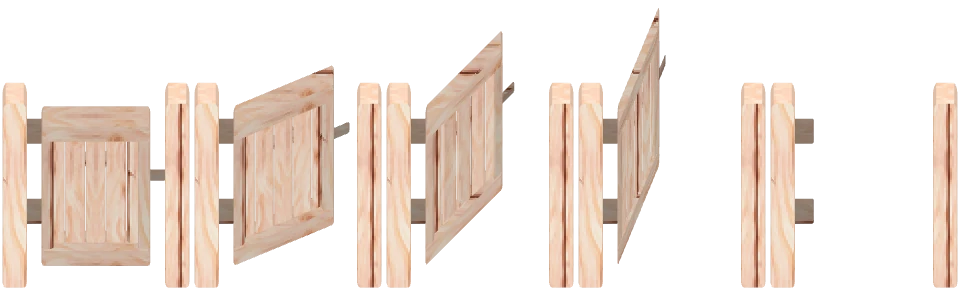
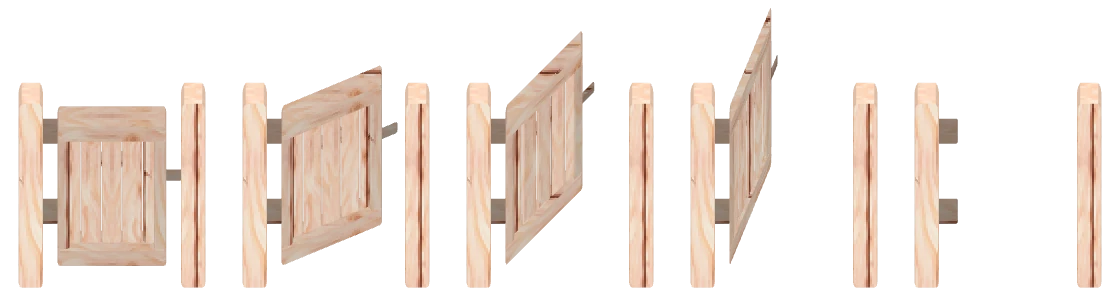
Cerca: sombra de contato no chão (não flutua mais)
Sombra por código como sprite translúcido atrás da cerca (3D) e direto no canvas (2D); porteira com quadro mais largo.

Claude-Session: https://claude.ai/code/session_01KGdgomm438trDHTLPLqJmv

diff --git a/src/render/three/chunkSprites.ts b/src/render/three/chunkSprites.ts
@@ -17,6 +17,8 @@ export interface SpriteArt {
 }
 export interface SpriteDraw {
   sprite: SpriteArt;
+  /** Sombra no chão (sprite translúcido, não clicável) desenhada atrás do sprite. */
+  shadow?: SpriteArt;
   /** Dá para andar por cima (grama, flor, cultura, porta aberta): não esconde o personagem. */
   walkable: boolean;
   /** Desenhado empilhado N vezes, um cubo (1 de altura) acima do outro (parede do labirinto: 2). Padrão 1. */
@@ -33,6 +35,8 @@ export interface SpriteCell {
   lift?: number;
   /** Fator de tamanho (`SpriteDraw.scale`); padrão 1. */
   scale?: number;
+  /** Deslocamento extra de profundidade (a sombra fica um pouco atrás do sprite). */
+  bias?: number;
 }
 export interface ChunkSpritesOptions {
   /** Pixels por célula da arte (TILE). */
@@ -117,6 +121,8 @@ diffuseColor.rgb *= 1.0 + warm * (pulse - 0.5) * 0.45;
 export const SPRITE_BIAS_BASE = 0.01;
 export const SPRITE_BIAS_STEP = 0.0015;
 export const SPRITE_BIAS_PERIOD = 64;
+/** A sombra de contato (`SpriteDraw.shadow`) fica este tanto atrás do sprite a que pertence. */
+const SHADOW_BIAS = 0.004;
 export function spriteDepthBias(x: number): number {
   return SPRITE_BIAS_BASE + (x & (SPRITE_BIAS_PERIOD - 1)) * SPRITE_BIAS_STEP;
 }
@@ -317,6 +323,11 @@ export class ChunkSprites {
         const scale = draw.scale && draw.scale !== 1 ? draw.scale : undefined;
         const n = Math.min(MAX_STACK_DRAWN, Math.max(1, Math.floor(draw.stack ?? 1)));
         for (let level = 0; level < n; level++) bucket.cells.push({ x, y, id, sprite: draw.sprite, lift: level, scale });
+        if (draw.shadow) {
+          let sb = buckets.get(draw.shadow.canvas);
+          if (!sb) { sb = { sprite: draw.shadow, walkable: true, animated: null, cells: [] }; buckets.set(draw.shadow.canvas, sb); }
+          sb.cells.push({ x, y, id, sprite: draw.shadow, bias: -SHADOW_BIAS });
+        }
       }
     }
     const groups: Group[] = [];
@@ -330,7 +341,7 @@ export class ChunkSprites {
         // base do sprite = face sul da célula (oy + h = TILE na maioria dos objetos); canto esquerdo = ox
         // maior que 1: cresce em volta do meio da base (o tronco fica na célula)
         const sc = cell.scale ?? 1;
-        this.dummy.position.set(cell.x + sprite.ox / tile - (sprite.w / tile / 2) * (sc - 1), cell.lift ?? 0, cell.y + (sprite.oy + sprite.h) / tile + spriteDepthBias(cell.x));
+        this.dummy.position.set(cell.x + sprite.ox / tile - (sprite.w / tile / 2) * (sc - 1), cell.lift ?? 0, cell.y + (sprite.oy + sprite.h) / tile + spriteDepthBias(cell.x) + (cell.bias ?? 0));
         this.dummy.rotation.set(0, 0, 0);
         this.dummy.scale.set(sc, sc, 1);
         this.dummy.updateMatrix();

diff --git a/src/render/fence.ts b/src/render/fence.ts
@@ -22,7 +22,7 @@ export const FENCE_FRAME = { w: 128, h: 232, ax: 64, ay: 208 } as const;
  * Porteira do modelo 3D (v0.93.96): 5 poses (0°, 22,5°, 45°, 67,5°, 90°) lado a lado, cada uma `w × h` (a folha gira para o norte em torno da
  * dobradiça); `postBase` = linha da base das estacas (a mesma âncora da cerca). Há uma tira por madeira; a porteira usa a da cerca vizinha.
  */
-export const GATE_FRAME = { w: 192, h: 300, postBase: 278, poses: 5 } as const;
+export const GATE_FRAME = { w: 224, h: 300, postBase: 278, poses: 5 } as const;
 
 /** Madeira da porteira: a da primeira cerca vizinha (oeste, leste, norte, sul); sem cerca por perto, Carvalho. `at(dx, dy)` devolve o objeto da célula vizinha. */
 export function gateWood(at: (dx: number, dy: number) => BlockId): BlockId {
@@ -60,3 +60,31 @@ export const FENCE_OFFSET = {
   x: TILE / 2 - FENCE_FRAME.ax * FENCE_SCALE,
   y: TILE / 2 - FENCE_FRAME.ay * FENCE_SCALE,
 } as const;
+
+function blob(ctx: CanvasRenderingContext2D, cx: number, cy: number, rx: number, ry: number, alpha: number): void {
+  ctx.save();
+  ctx.translate(cx, cy);
+  ctx.scale(rx, ry);
+  const g = ctx.createRadialGradient(0, 0, 0, 0, 0, 1);
+  g.addColorStop(0, `rgba(0,0,0,${alpha})`);
+  g.addColorStop(0.55, `rgba(0,0,0,${alpha * 0.7})`);
+  g.addColorStop(1, 'rgba(0,0,0,0)');
+  ctx.fillStyle = g;
+  ctx.beginPath();
+  ctx.arc(0, 0, 1, 0, Math.PI * 2);
+  ctx.fill();
+  ctx.restore();
+}
+
+/**
+ * Sombra de contato da cerca no chão (v0.93.96; sem ela a cerca parece flutuar): uma mancha suave sob a estaca e outra sob cada braço que se emenda.
+ * Desenhada por código (não vai na arte: o 3D usa `alphaTest` nos sprites e pontos translúcidos virariam pretos) com `ax, ay` = pé da estaca no
+ * canvas e `z` = escala (px do canvas por px do quadro de 128 px por célula).
+ */
+export function drawFenceShadow(ctx: CanvasRenderingContext2D, ax: number, ay: number, z: number, n: boolean, e: boolean, s: boolean, w: boolean): void {
+  blob(ctx, ax + 5 * z, ay + 3 * z, 38 * z, 26 * z, 0.5);
+  if (w) blob(ctx, ax - 40 * z, ay + 3 * z, 36 * z, 17 * z, 0.36);
+  if (e) blob(ctx, ax + 46 * z, ay + 3 * z, 36 * z, 17 * z, 0.36);
+  if (n) blob(ctx, ax + 5 * z, ay - 40 * z, 20 * z, 36 * z, 0.36);
+  if (s) blob(ctx, ax + 5 * z, ay + 46 * z, 20 * z, 36 * z, 0.36);
+}

diff --git a/src/render/renderer.ts b/src/render/renderer.ts
@@ -4,7 +4,7 @@ import type { ItemDrop } from '../game/drops';
 import type { Actor } from '../game/entities';
 import type { Player } from '../game/player';
 import { Block, blockDef, type BlockId, isDoor, isFence, isGate, joinsFence } from '../world/blocks';
-import { FENCE_FRAME, FENCE_OFFSET, FENCE_SCALE, FencePiece, fenceParts, gateWood } from './fence';
+import { FENCE_FRAME, FENCE_OFFSET, FENCE_SCALE, FencePiece, fenceParts, drawFenceShadow, gateWood } from './fence';
 import { hash2 } from '../world/random';
 import type { World } from '../world/world';
 import { ActorSprites, drawHeart } from './character';
@@ -376,10 +376,11 @@ export class Renderer {
   private drawFence(cam: Camera, x: number, y: number, pieces: HTMLCanvasElement[]): void {
     const j = (dx: number, dy: number) => joinsFence(this.world.getObject(x + dx, y + dy));
     const parts = fenceParts(j(0, -1), j(1, 0), j(0, 1), j(-1, 0));
-    const { w, h, ax } = FENCE_FRAME;
+    const { w, h, ax, ay } = FENCE_FRAME;
     const z = cam.zoom * FENCE_SCALE;
     const left = cam.worldToScreenX(x * TILE + FENCE_OFFSET.x);
     const top = cam.worldToScreenY(y * TILE + FENCE_OFFSET.y);
+    drawFenceShadow(this.ctx, left + ax * z, top + ay * z, z, parts.north || parts.whole === FencePiece.Vertical, parts.east || parts.whole === FencePiece.Horizontal, parts.south || parts.whole === FencePiece.Vertical, parts.west || parts.whole === FencePiece.Horizontal);
     // Recorte (sx, sy, sw, sh) da peça, desenhado na mesma posição do quadro.
     const piece = (p: number, sx: number, sy: number, sw: number, sh: number) =>
       this.ctx.drawImage(pieces[p], sx, sy, sw, sh, Math.round(left + sx * z), Math.round(top + sy * z), Math.ceil(sw * z), Math.ceil(sh * z));

diff --git a/src/render/worldSpriteArt.ts b/src/render/worldSpriteArt.ts
@@ -1,7 +1,7 @@
 import { Block, blockDef, isDoor, isFence, isGate, joinsFence, type BlockId } from '../world/blocks';
 import { hash2 } from '../world/random';
 import type { World } from '../world/world';
-import { FENCE_FRAME, FENCE_OFFSET, FENCE_SCALE, FencePiece, fenceParts } from './fence';
+import { FENCE_FRAME, FENCE_OFFSET, FENCE_SCALE, FencePiece, fenceParts, drawFenceShadow } from './fence';
 import type { BlockTextures } from './textures';
 import { isTownArt } from './townArt';
 import type { SpriteDraw } from './three/chunkSprites';
@@ -40,9 +40,15 @@ export function worldSpriteArt(world: World, textures: BlockTextures): (id: Bloc
       if (parts.south) piece(FencePiece.ArmSouth, 0, 0, fw, fh);
     }
     const wpx = fw * FENCE_SCALE, hpx = fh * FENCE_SCALE;
+    // Sombra no chão: sprite à parte (translúcido; o sprite sólido do 3D descartaria o que tem pouco alfa), atrás da cerca.
+    const sc = document.createElement('canvas');
+    sc.width = fw;
+    sc.height = fh;
+    drawFenceShadow(sc.getContext('2d')!, FENCE_FRAME.ax, FENCE_FRAME.ay, 1, n || parts.whole === FencePiece.Vertical, e || parts.whole === FencePiece.Horizontal, s || parts.whole === FencePiece.Vertical, w || parts.whole === FencePiece.Horizontal);
     hit = {
       walkable: false,
       sprite: { canvas: c, ox: FENCE_OFFSET.x, oy: FENCE_OFFSET.y, w: wpx, h: hpx, hit: { x: FENCE_OFFSET.x, y: FENCE_OFFSET.y, w: wpx, h: hpx } },
+      shadow: { canvas: sc, ox: FENCE_OFFSET.x, oy: FENCE_OFFSET.y, w: wpx, h: hpx, hit: { x: 0, y: 0, w: 0, h: 0 } },
     };
     fenceCache.set(key, hit);
     return hit;

diff --git a/scripts/fence-model/render.html b/scripts/fence-model/render.html
@@ -7,7 +7,7 @@ const P = new URLSearchParams(location.search);
 const piece = P.get('piece'), WOOD = P.get('wood');
 const CELL = 12, PPU = 128 / CELL, K = 1;
 const GATE = piece === 'gate', ANGLE = +(P.get('angle') || 0) * Math.PI / 180;
-const [W, H, AY] = GATE ? [192, 300, 278] : [128, 232, 208];
+const [W, H, AY] = GATE ? [224, 300, 278] : [128, 232, 208];
 const d = await (await fetch(GATE ? 'gate.json' : 'model.json')).json();
 const byName = Object.fromEntries(d.elements.map((e) => [e.name, e]));
 const loader = new THREE.TextureLoader();
@@ -17,6 +17,8 @@ const tile = (n) => new Promise((r) => loader.load(n, (x) => {
 }));
 const [woodTop, woodFront] = await Promise.all([tile('top-' + WOOD + '.png'), tile('front-' + WOOD + '.png')]);
 const scene = new THREE.Scene();
+
+// (a sombra de contato no chão não é cozida na arte: os sprites sólidos usam alphaTest e ela viraria pontos pretos; ver `fenceShadow` em render/fence.ts)
 
 /** Malha do modelo com os vértices transformados por `map([x,y,z]) → [x,y,z]`; UV por projeção a partir da posição final (1 tile = 1 célula = 12 u). */
 /** `tone` escurece (< 1) ou clareia (> 1) a peça: as travessas saem mais escuras que as estacas para se distinguirem delas. */

diff --git a/scripts/extract-fence-model.py b/scripts/extract-fence-model.py
@@ -48,9 +48,9 @@ for wood, (_, strip_name, icon_name, gate_name) in WOODS.items():
     c = Image.new('RGBA', (64, 64), (0, 0, 0, 0))
     c.alpha_composite(im, ((64 - im.width) // 2, (64 - im.height) // 2))
     c.save(OUT / icon_name, 'WEBP', quality=90, method=6)
-    gate = Image.new('RGBA', (192 * 5, 300), (0, 0, 0, 0))   # 5 poses (0°, 22,5°, 45°, 67,5°, 90°) 192 × 300; base das estacas em (96, 278)
+    gate = Image.new('RGBA', (224 * 5, 300), (0, 0, 0, 0))   # 5 poses (0°, 22,5°, 45°, 67,5°, 90°) 224 × 300; base das estacas em (112, 278)
     for i in range(5):
-        gate.alpha_composite(Image.open(renders / f'{wood}-gate-{i}.png').convert('RGBA'), (i * 192, 0))
+        gate.alpha_composite(Image.open(renders / f'{wood}-gate-{i}.png').convert('RGBA'), (i * 224, 0))
     gate.save(OUT / gate_name, 'WEBP', quality=90, method=6)
     if wood == 'carvalho':
         im = Image.open(renders / 'carvalho-gate-0.png').convert('RGBA')

diff --git a/docs/CHANGELOG.md b/docs/CHANGELOG.md
@@ -4,8 +4,9 @@
 - **Pedido do dono do produto:** usar o modelo 3D da cerca de bétula (`assets-src/cerca-betula/*.bbmodel`) como arte da cerca: **substitui a Cerca de Madeira (Carvalho)** e entra como **blocos novos em Bétula e em Cerejeira**.
 - **Arte** (`scripts/extract-fence-model.py` + `scripts/fence-model/render.{html,cjs}`): o modelo é renderizado com Three.js (Chromium do Playwright) na câmera do jogo (oblíqua K = 1, norte para cima) e revestido com as tábuas do `materials-v2` de cada madeira (veio vertical nas estacas, horizontal nas travessas; sombreado fixo por face; as **travessas são 32 % mais escuras que as estacas** (`RAIL_TONE` em `render.html`) para se distinguirem delas). 3 tiras de 5 quadros 128 × 232 (`fence.webp`, `fence-betula.webp`, `fence-cerejeira.webp`): horizontal, vertical, estaca, **braço norte** e **braço sul** (só as travessas; antes o corte norte/sul era por linha de pixels, que não serve com 2 alturas de travessa). Ícones novos. A estaca fica com ~22 px de altura no jogo (a de antes era ~10).
 - **Blocos** (`world/blocks.ts`): `FENCE_BIRCH` (245) e `FENCE_CHERRY` (248), `isFence()`; `joinsFence` emenda as três cercas entre si e com a porteira. Receitas do Construtor: 2 Tábuas da madeira → 4 cercas (`birch-fence`, `cherry-fence`). Hotbar principal 39 → 41; fora do Santuário.
+- **Sombra de contato** (`drawFenceShadow` em `render/fence.ts`): a cerca parecia flutuar; ganhou uma mancha suave sob cada estaca e braço, desenhada por código (no 2D direto no canvas; no 3D como `SpriteDraw.shadow`, um sprite translúcido, não clicável, `bias` -0,004 atrás do sprite — não pode ir cozida na arte porque os sprites sólidos usam `alphaTest` e o pouco alfa viraria pontos pretos). A porteira ainda não tem sombra.
 - **Render:** `fencePieces` vira um mapa por bloco; `drawFence` (2D) e `worldSpriteArt` (3D) desenham braço norte → braços laterais → estaca → braço sul (na frente). Cache do 3D por (bloco, vizinhos).
-- **Porteira 3D** (`portao-betula-v01.bbmodel`): renderizada do modelo (estacas e dobradiças fixas; a **folha gira para o norte** em torno da dobradiça, 0°–90° em 5 poses → 10 quadros). Uma tira por madeira (`fence-gate.webp`, `-betula`, `-cerejeira`, 192 × 300 por pose, base das estacas em (96, 278)); **a porteira usa a madeira da cerca vizinha** (`gateWood`: oeste, leste, norte, sul; sem cerca, Carvalho) — continua um único bloco `FENCE_GATE`/`FENCE_GATE_OPEN`. Dobradiças e fecho escuros, tábuas da folha um pouco mais escuras que as estacas. O kit v3 (`extract-fence-gate.py`, `assets-src/cerca-v3`) foi removido. Modelo da cerca atualizado para a versão de estacas mais finas (v03).
+- **Porteira 3D** (`portao-betula-v01.bbmodel`): renderizada do modelo (estacas e dobradiças fixas; a **folha gira para o norte** em torno da dobradiça, 0°–90° em 5 poses → 10 quadros). Uma tira por madeira (`fence-gate.webp`, `-betula`, `-cerejeira`, 224 × 300 por pose, base das estacas em (112, 278)); **a porteira usa a madeira da cerca vizinha** (`gateWood`: oeste, leste, norte, sul; sem cerca, Carvalho) — continua um único bloco `FENCE_GATE`/`FENCE_GATE_OPEN`. Dobradiças e fecho escuros, tábuas da folha um pouco mais escuras que as estacas. O kit v3 (`extract-fence-gate.py`, `assets-src/cerca-v3`) foi removido. Modelo da cerca atualizado para a versão de estacas mais finas (v03).
 - Sem mudança de mapa/save/protocolo de regras, mas há **blocos novos**: o servidor precisa de `build:net` + `sync-net` para aceitar as cercas novas (sem subir `PROTOCOL_VERSION`, como nos blocos anteriores). `tsc` e testes verdes (grades 1 e 2); conferido no navegador (3D e 2D).
 
 ## Orvalis v0.93.95 — cerca nova (kit v3) e porteira animada (15/11/2026)

diff --git a/docs/OPERATIONS.md b/docs/OPERATIONS.md
@@ -201,7 +201,7 @@ de ícones padronizada, camada de mão sobre pose-base). O motor só importa o q
 
 **Cerca (v0.93.96)** — a partir do **modelo 3D** do Blockbench (`assets-src/cerca-betula/*.bbmodel`): `python3 scripts/extract-fence-model.py` (cerca + porteira; precisa de `node` + `playwright` global e `npm ci`) renderiza o modelo com Three.js na câmera do jogo e o reveste com as tábuas do `materials-v2` → `fence.webp` (Carvalho), `fence-betula.webp`, `fence-cerejeira.webp` (5 quadros 128 × 232: horizontal, vertical, estaca, braço norte, braço sul) e os ícones. Modelo novo com outros nomes de malha → ajuste `scripts/fence-model/render.html`. Mudou a âncora/quadro → `FENCE_FRAME` em `render/fence.ts`.
 
-**Porteira** — do modelo `portao-*.bbmodel` (mesma pasta), pelo mesmo `extract-fence-model.py`: `fence-gate.webp`, `fence-gate-betula.webp`, `fence-gate-cerejeira.webp` (5 poses 192 × 300; a folha gira em torno da dobradiça em x = −5,1; `buildGate` em `scripts/fence-model/render.html`) e `icon-block-fence-gate.webp`. `GATE_FRAME` em `render/fence.ts`. (Referências antigas em `assets-src/cerca/`; `extract-fence.py` é a versão antiga.)
+**Porteira** — do modelo `portao-*.bbmodel` (mesma pasta), pelo mesmo `extract-fence-model.py`: `fence-gate.webp`, `fence-gate-betula.webp`, `fence-gate-cerejeira.webp` (5 poses 224 × 300; a folha gira em torno da dobradiça em x = −5,1; `buildGate` em `scripts/fence-model/render.html`) e `icon-block-fence-gate.webp`. `GATE_FRAME` em `render/fence.ts`. (Referências antigas em `assets-src/cerca/`; `extract-fence.py` é a versão antiga.)
 
 **Marcos do mundo** (entrada do covil, `assets-src/dungeon-cave.png`): `python3 scripts/extract-landmarks.py` →
 `dungeon-cave.png` (320 px de largura) → `optimize-assets.py`. Carrega com a arte do covil, em segundo plano.

diff --git a/docs/NEXT_STEPS.md b/docs/NEXT_STEPS.md
@@ -363,4 +363,4 @@ longe, onde os personagens passam a se concentrar. Passos sugeridos (ordem de de
 - Monstros sempre atualizados (~39 no labirinto): ok hoje; com várias dungeons, atualizar só os próximos.
 - Pipeline de brilho (`glowColor`) sem uso desde a remoção dos blocos mágicos (mantido para tochas/vaga-lumes).
 - iPhone/Safari: sem tela cheia/trava de orientação no navegador (limitação da plataforma).
-- **Cercas de estacas (v0.93.96):** (1) **servidor**: blocos novos (245/248) → `npm run build:net` + `sync-net` e republicar o servidor antes do jogo; (2) **porteira**: um único bloco que toma a madeira da cerca vizinha; se quiser porteiras com receita/estoque por madeira, são 4 ids novos; (3) decidir se o muro/portão da vila passam a usar a cerca nova; (4) o 2D de reserva desenha as cercas maiores no zoom padrão (conferir se vale ajustar); (5) conferir a legibilidade das travessas verticais (finas na câmera oblíqua).
+- **Cercas de estacas (v0.93.96):** (1) **servidor**: blocos novos (245/248) → `npm run build:net` + `sync-net` e republicar o servidor antes do jogo; (2) **porteira**: um único bloco que toma a madeira da cerca vizinha; se quiser porteiras com receita/estoque por madeira, são 4 ids novos; (2b) a porteira ainda não tem sombra de contato (a da cerca é `SpriteDraw.shadow`); (3) decidir se o muro/portão da vila passam a usar a cerca nova; (4) o 2D de reserva desenha as cercas maiores no zoom padrão (conferir se vale ajustar); (5) conferir a legibilidade das travessas verticais (finas na câmera oblíqua).
